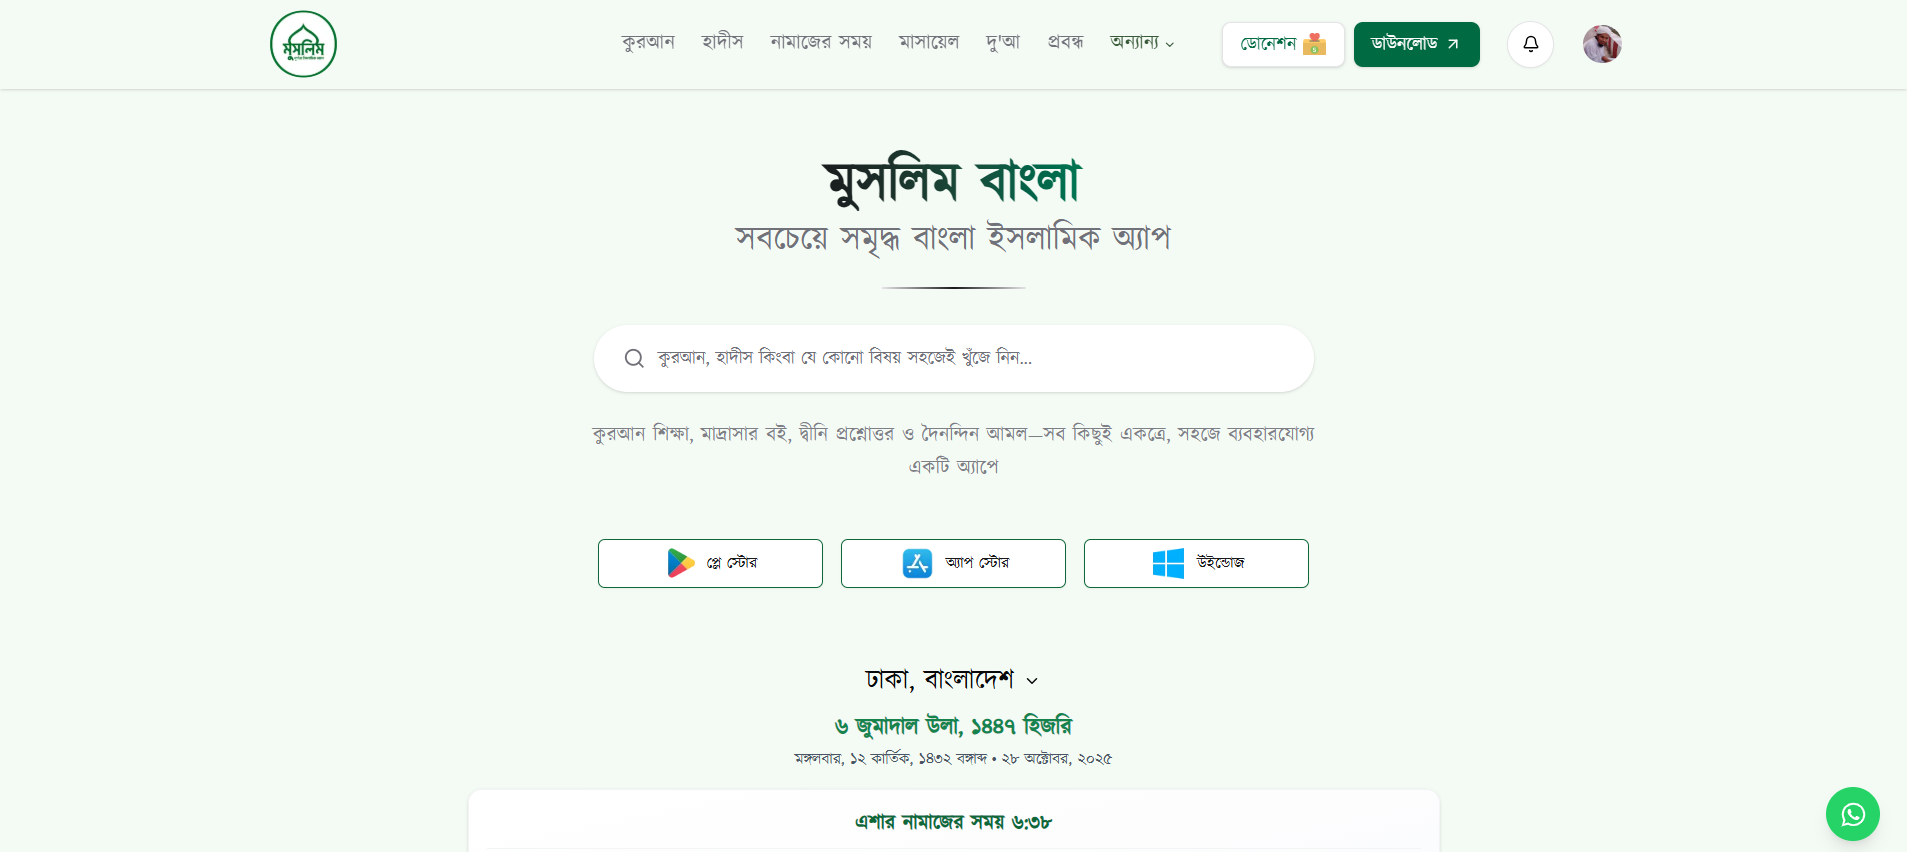
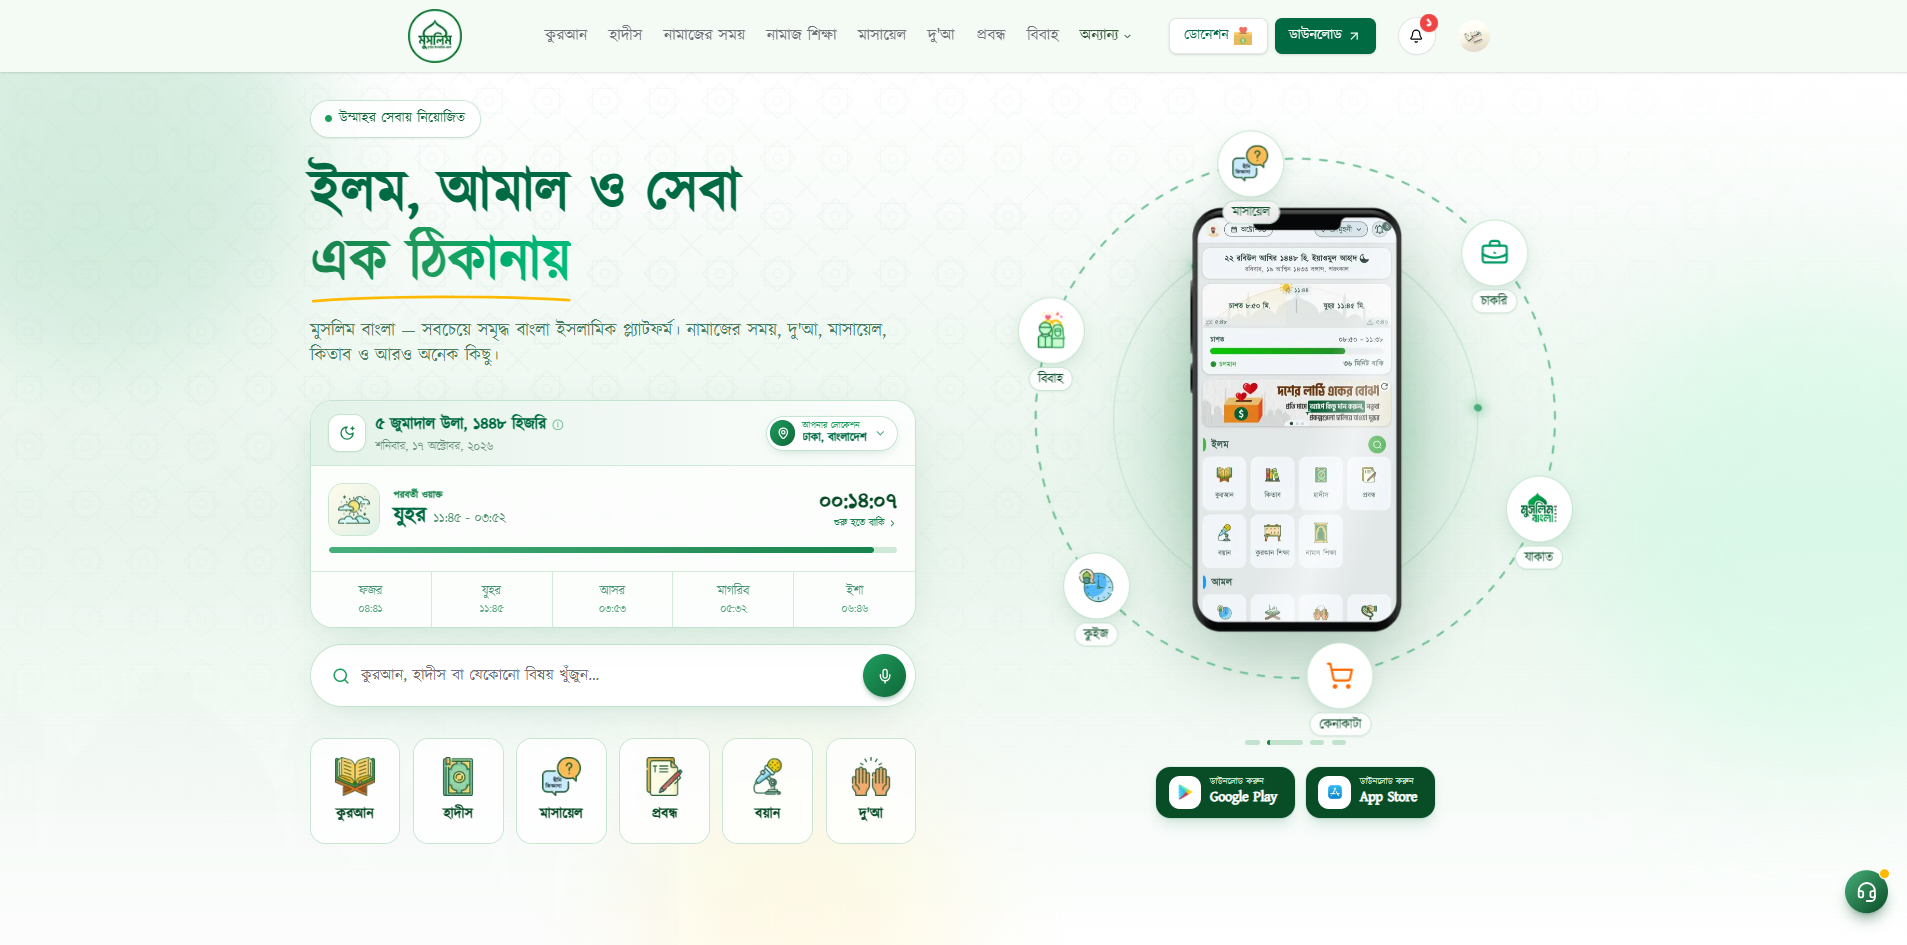
new images added

diff --git a/src/data/portfolioData.ts b/src/data/portfolioData.ts
@@ -421,7 +421,7 @@ export const projects = [
     description:
       "Currently in active learning and development phase focusing on the US market. Led the frontend team as Senior Frontend Engineer in close collaboration with project leads to architect real-time data feeds and integrated AI market intelligence tools, sentiment analysis, and intelligent market depth scanners.",
     image:
-      "https://github.com/hasancsecu/portfolio/blob/main/src/images/pqcal.png?raw=true",
+      "https://github.com/hasancsecu/portfolio/blob/main/src/images/pqcal-global.png?raw=true",
     tags: [
       "Angular",
       "Signals",
@@ -435,8 +435,8 @@ export const projects = [
     category: "ai",
     featured: true,
     stats: "US Market Intelligence & AI",
-    github: "https://repo.dohatec.com.bd/DohaSecuritiesOMS/web-ui",
-    webapp: "https://pqcal.dohasecurities.com.bd/",
+    github: "https://repo.dohatec.com.bd/DohaSecuritiesOMS/pqci-web-app",
+    webapp: "https://pqcal.com/",
   },
   {
     id: 2,

diff --git a/vite.config.ts b/vite.config.ts
@@ -1,6 +1,21 @@
-import { defineConfig } from "vite";
+import { defineConfig, type Plugin } from "vite";
 import react from "@vitejs/plugin-react-swc";
 import path from "path";
+import fs from "fs";
+
+function spaFallbackPlugin(): Plugin {
+  return {
+    name: "spa-fallback",
+    closeBundle() {
+      const distDir = path.resolve(__dirname, "dist");
+      const indexPath = path.join(distDir, "index.html");
+      const notFoundPath = path.join(distDir, "404.html");
+      if (fs.existsSync(indexPath)) {
+        fs.copyFileSync(indexPath, notFoundPath);
+      }
+    },
+  };
+}
 
 export default defineConfig(({ mode }) => ({
   base: "/portfolio/",
@@ -8,7 +23,7 @@ export default defineConfig(({ mode }) => ({
     host: "::",
     port: 8080,
   },
-  plugins: [react()].filter(Boolean),
+  plugins: [react(), spaFallbackPlugin()].filter(Boolean),
   resolve: {
     alias: {
       "@": path.resolve(__dirname, "./src"),
